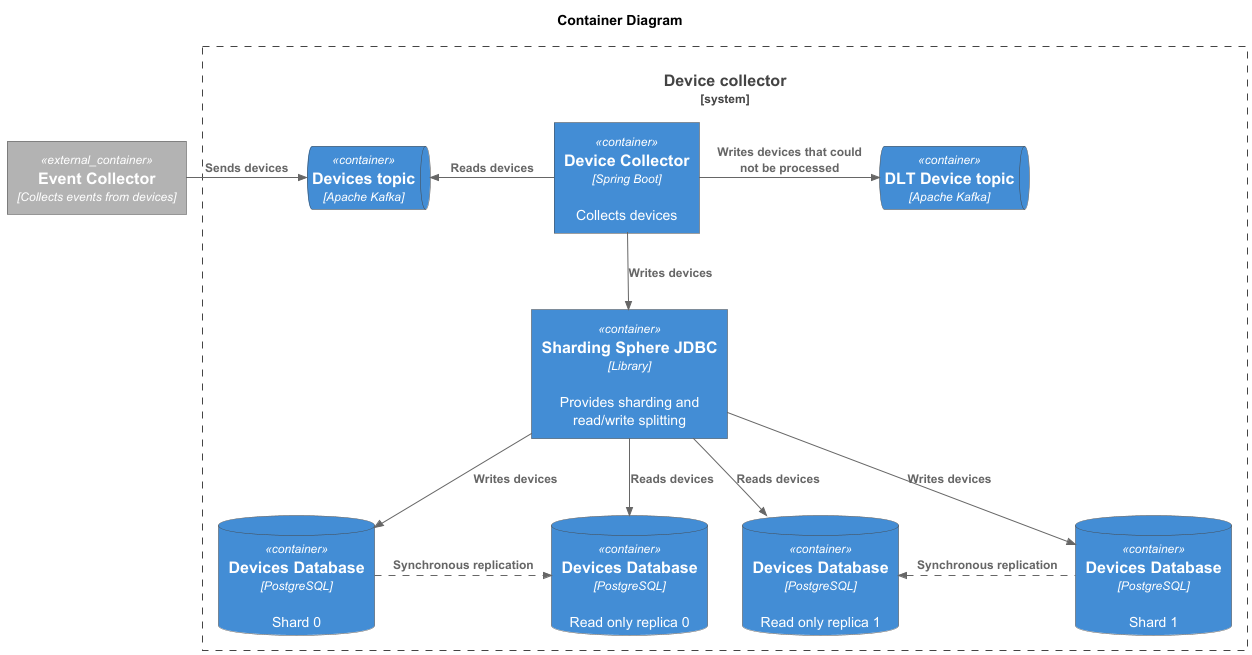
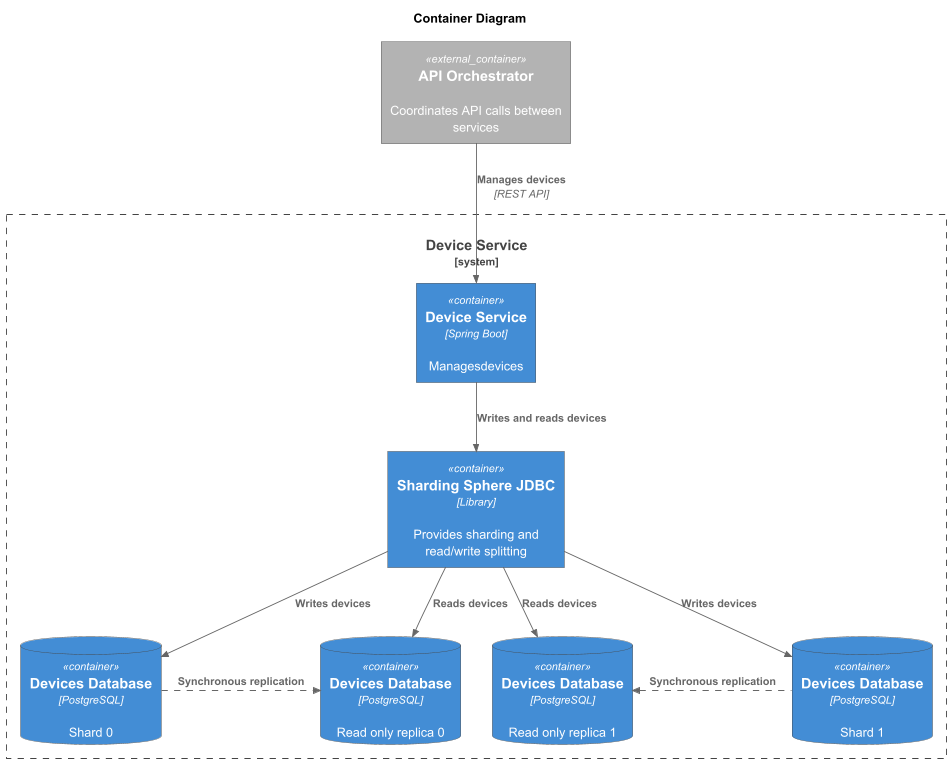
Update container diagram

Changed region(s): [[0.0, 0.0, 1.0, 1.0]]

diff --git a/device-service/README.md b/device-service/README.md
@@ -16,7 +16,6 @@ The service consists of the following components:
 
 ## Container Diagram
 
-{todo: example}
 ![Diagram](architecture/diagrams/image/container-diagram.png)
 
 ## Device Processing Flow
